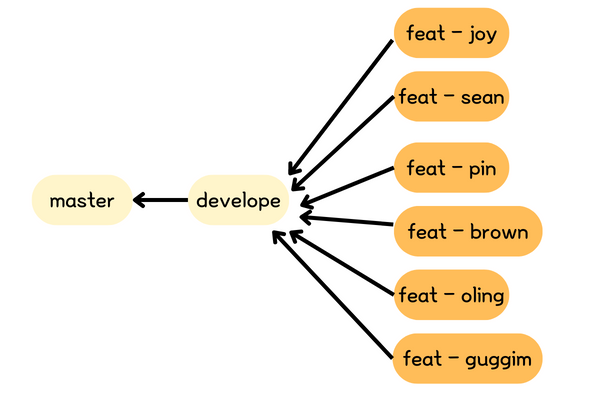
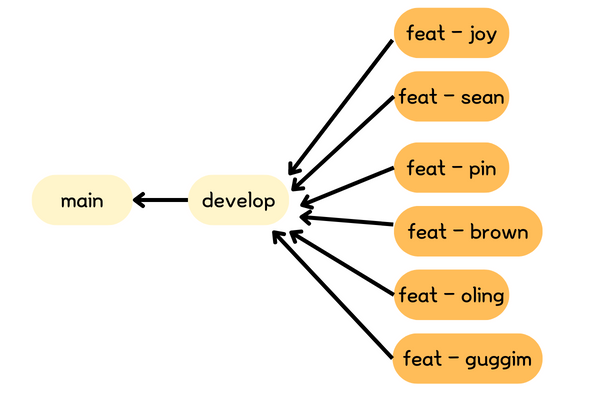
📝 docs: readme 업데이트

Changed region(s): [[0.33, 0.48, 0.48, 0.54], [0.06, 0.48, 0.21, 0.54]]

diff --git a/README.md b/README.md
@@ -25,9 +25,9 @@ SwiftUI, AVFoundation, Coordinator Pattern
 
 # Git-Flow
 ## Git branch (Git-flow)
-- `master` : 제품을 배포하는 브랜치입니다. 🚨 절대 허락 없이 이 브랜치에서 <b>새로운 브랜치를 생성하지 마세요!!!!!</b> 🚨
+- `main` : 제품을 배포하는 브랜치입니다. 🚨 절대 허락 없이 이 브랜치에서 <b>새로운 브랜치를 생성하지 마세요!!!!!</b> 🚨
 - `develop` : 개발자들이 작업한 코드를 합치는 브랜치입니다.
-- `feature - 이름` : 예시로 `feature-joy` 로 브랜치를 생성하시면 됩니다.  `feature-이름`에서  작업한 작업물이 완료되면 develop으로 머지하시면 됩니다. 머지 전에 팀원들과 함께 진행 상황 꼭 공유하도록 하기!! MUST!! 🤔 
+- `feat - 이름` : 예시로 `feat-joy` 로 브랜치를 생성하시면 됩니다.  `feat-이름`에서  작업한 작업물이 완료되면 develop으로 머지하시면 됩니다. 머지 전에 팀원들과 함께 진행 상황 꼭 공유하도록 하기!! MUST!! 🤔 
 
 <img src="./git_flow.png" width="600" height="400">
 
